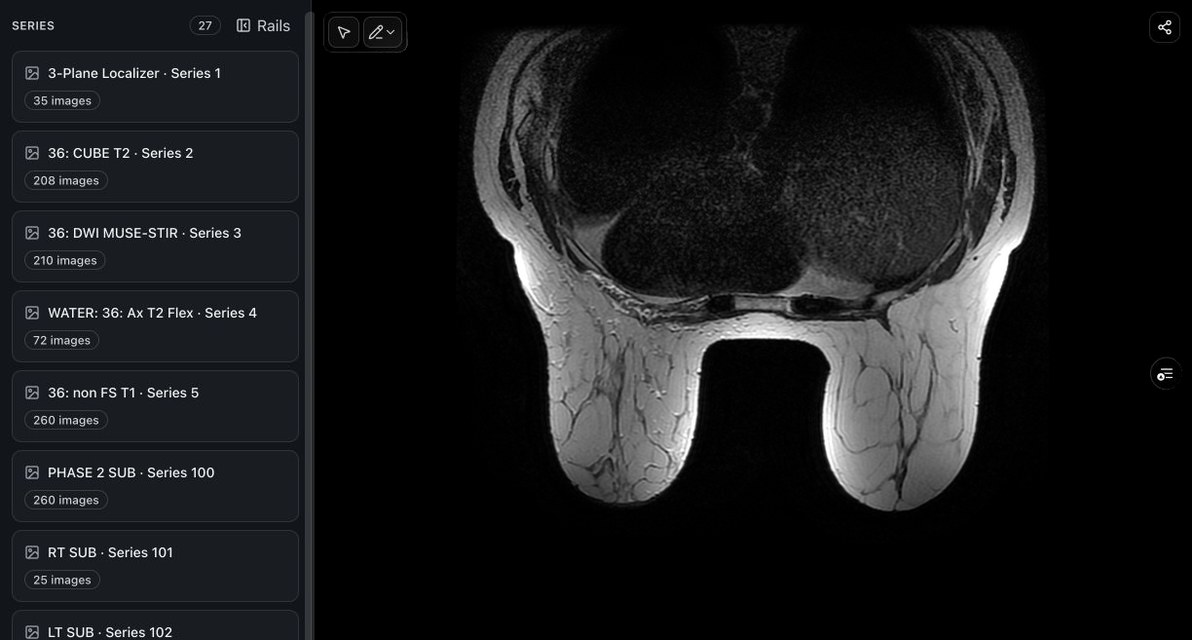
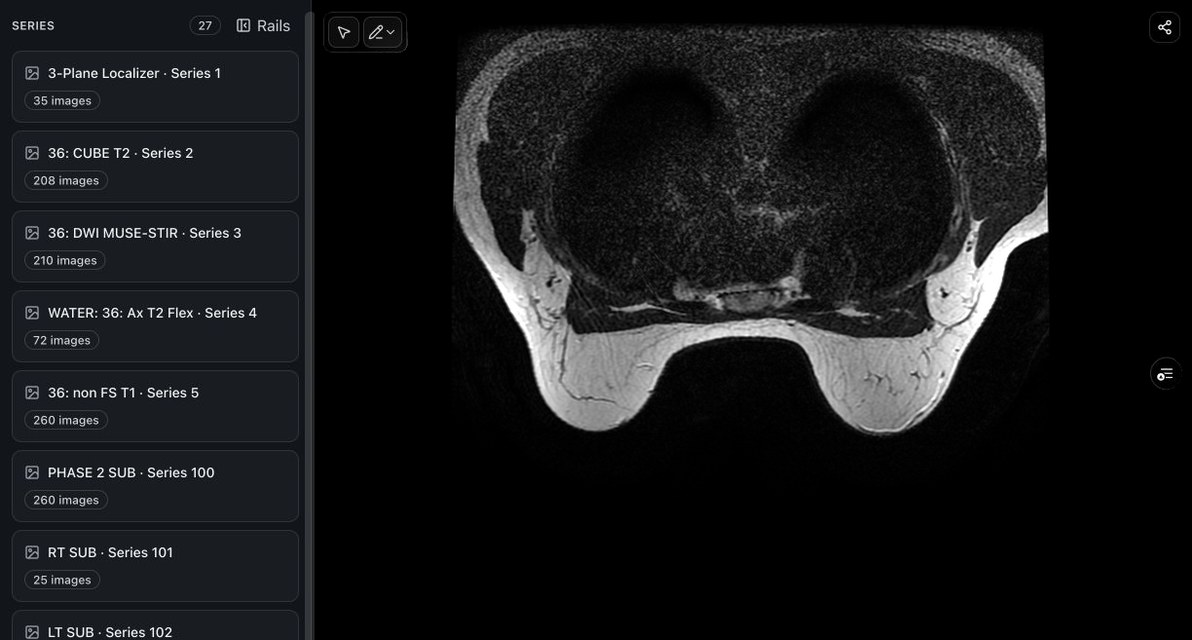
Use a smaller sample breast MRI in the imaging screenshot
Swap the placeholder slice for participant AMBL-010 (axial T2, image 44)
from the same CC BY 4.0 Advanced-MRI-Breast-Lesions collection, so the
footer credit is unchanged.

Changed region(s): [[0.3725, 0.0312, 0.9002, 0.8125]]

diff --git a/apps/app/specs/landing-page.md b/apps/app/specs/landing-page.md
@@ -51,7 +51,7 @@ The following assets are intentional public landing-page content. Theme pairs lo
 | `sign-in-cartoon-{light,dark}.webp` | `public/auth-wiki-cartoon-{light,dark}.png`, the earlier sign-in illustration | WebP quality 90 with alpha; same dimensions; the cartoon draws its own frame on a transparent canvas |
 | `og-image.jpg` | Composed from the brand mark, the hero headline, and `reader-desktop-light.jpg` | 1200×630 JPEG |
 
-The imaging screenshot's MRI is image 76 of the axial T2 FSE series for participant AMBL-200 in Daniels, D., Last, D., Cohen, K., Mardor, Y., & Sklair-Levy, M. (2024). *Standard and Delayed Contrast-Enhanced MRI of Malignant and Benign Breast Lesions with Histological and Clinical Supporting Data (Advanced-MRI-Breast-Lesions)* (Version 2) [dataset]. The Cancer Imaging Archive. https://doi.org/10.7937/C7X1-YN57. It is licensed under CC BY 4.0 (https://creativecommons.org/licenses/by/4.0/). It was rendered from DICOM with a linear 0–538 window, scaled to 630 px, and placed in the viewer capture; the footer carries the credit. TCIA's usage policy prohibits attempts to identify participants.
+The imaging screenshot's MRI is image 44 of the axial T2 FSE series for participant AMBL-010 in Daniels, D., Last, D., Cohen, K., Mardor, Y., & Sklair-Levy, M. (2024). *Standard and Delayed Contrast-Enhanced MRI of Malignant and Benign Breast Lesions with Histological and Clinical Supporting Data (Advanced-MRI-Breast-Lesions)* (Version 2) [dataset]. The Cancer Imaging Archive. https://doi.org/10.7937/C7X1-YN57. It is licensed under CC BY 4.0 (https://creativecommons.org/licenses/by/4.0/). It was rendered from DICOM with a linear 0–498 window (the 99.5th percentile), scaled to 630 px, and placed in the viewer capture; the footer carries the credit. TCIA's usage policy prohibits attempts to identify participants.
 
 Captures show the normal redacted reader with no individual account signed in. They were reviewed for visible identifiers; no MRNs, dates of birth, private email addresses, credentials, or patient-name overlays are included. Static assets remain publicly retrievable even when the source wiki has access controls. Refresh them deliberately rather than automatically exporting the vault or reader.
 
